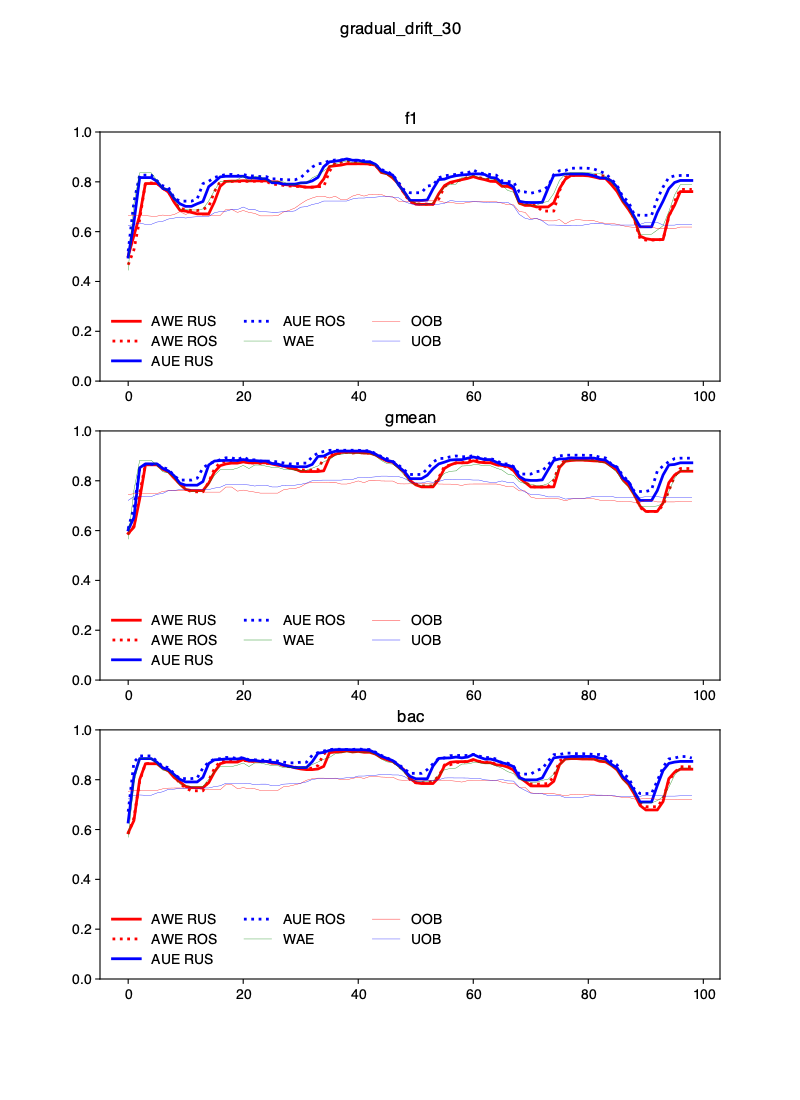
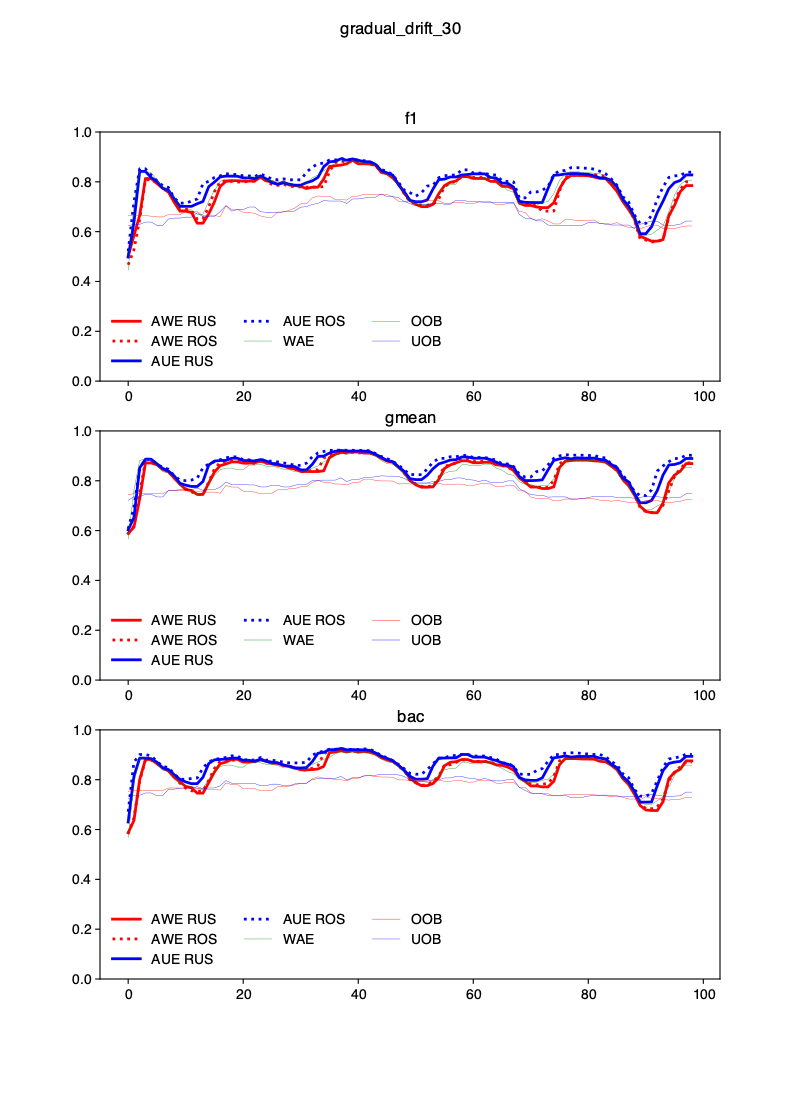
Plots.

diff --git a/script.py b/script.py
@@ -17,7 +17,7 @@ for fname in fnames:
     results = np.load("wyniki_dobre_douczanie/Stream_%s_imbalance.npy" % fname)
 
     results = np.mean(results, axis=0)
-    kernel = 5
+    kernel = 3
     metrics = ["f1", "gmean", "bac"]
     colors = ["red", "red", "blue", "blue", "green", "red", "blue"]
     ls = ["-", ":", "-", ":", "-", "-", "-"]
